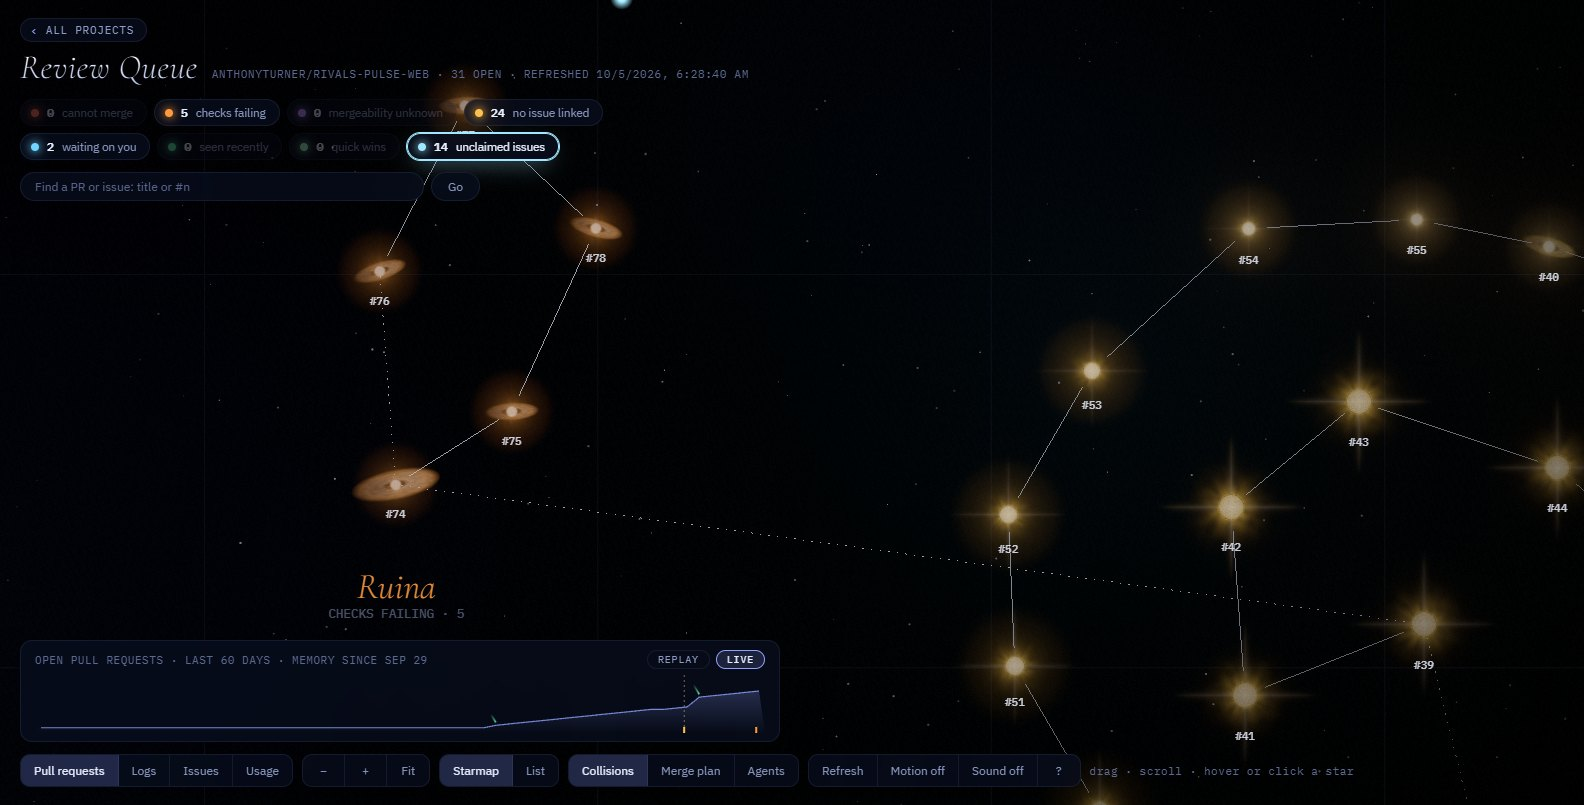
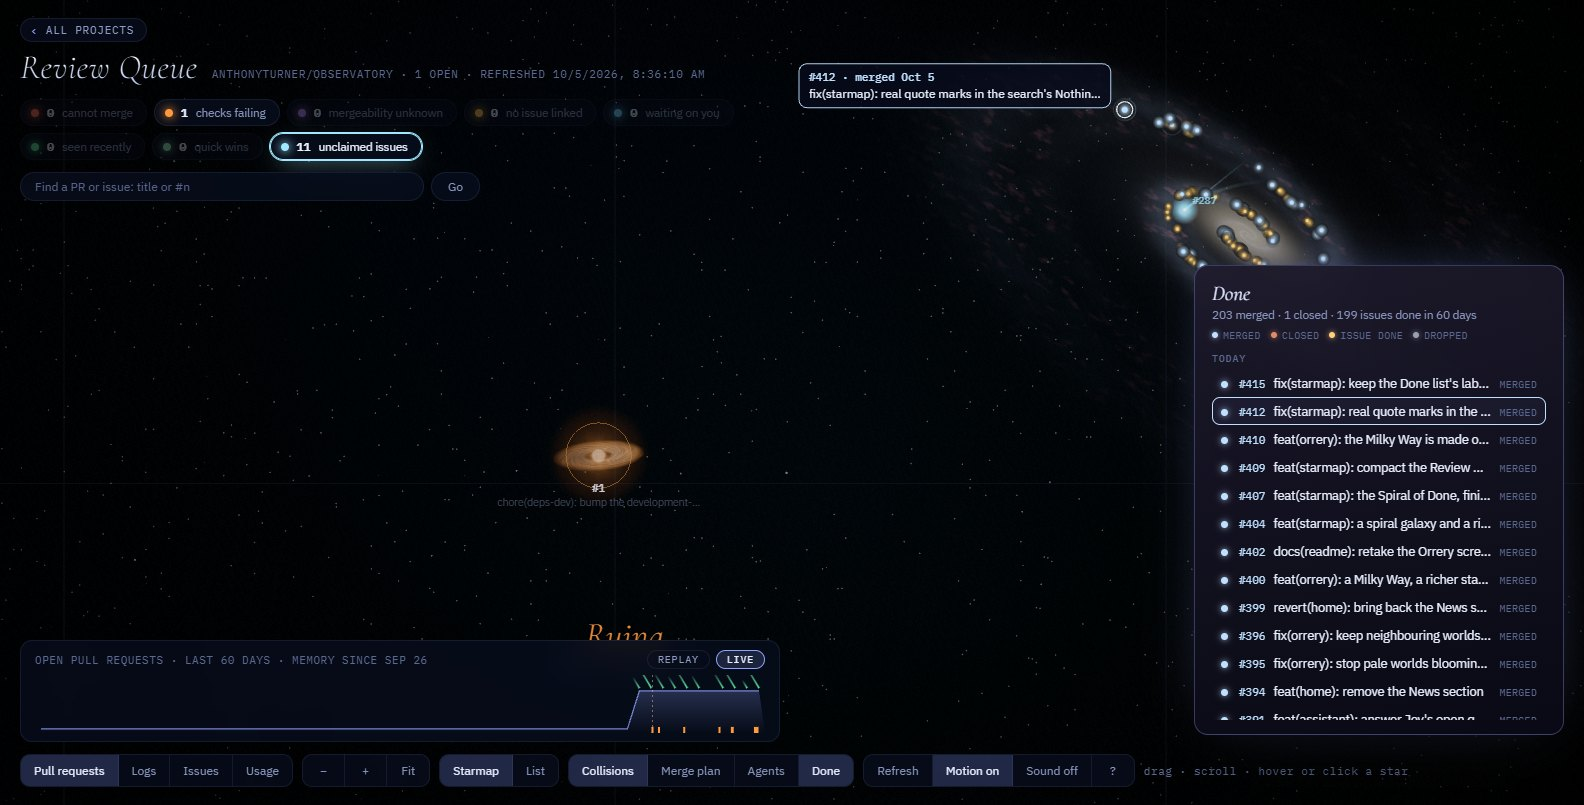
docs(readme): retake the review queue screenshots, describe finished work
The review queue's images now show its spiral galaxy and the Spiral of
Done with the Done list open, from the live app with public repositories
only. Reading the sky gains a line each for the Spiral of Done and the
shipped Milky Way.

Closes #413

diff --git a/README.md b/README.md
@@ -43,6 +43,9 @@ kept the same for each project on every load. Each page's help card (press
 - **Glowing cracks** mean checks are failing.
 - **Moons** are blocked pull requests, a **ring** is branches that no longer
   merge, and **comets** are unclaimed issues.
+- The specks in the **Milky Way** are what you shipped: every pull request
+  merged in the last 60 days, in its project's colour, oldest at one end of the
+  band and newest at the other.
 - The kind of world (rocky, gas giant, ice or desert), its land and its clouds
   are scenery.
 
@@ -50,8 +53,8 @@ kept the same for each project on every load. Each page's help card (press
 it and spaced along a spiral per group. Zoom in for detail.
 
 <table><tr>
-<td><img src="docs/images/review-queue-overview.jpg" alt="A review queue: a large spiral of pull requests with no issue linked, a smaller group with failing checks, and two waiting on review, joined by lines"></td>
-<td><img src="docs/images/review-queue-close-up.jpg" alt="The review queue zoomed in: failing-check stars with discs of gas, and stars with no issue linked, each tagged with its pull request number"></td>
+<td><img src="docs/images/review-queue-overview.jpg" alt="A review queue: a large spiral of pull requests with no issue linked, a smaller group with failing checks and two waiting on review, with a spiral galaxy behind them"></td>
+<td><img src="docs/images/review-queue-close-up.jpg" alt="The Spiral of Done: finished pull requests and issues as lights along the galaxy's arms, the Done list open beside it with one row lit and its light labelled"></td>
 </tr></table>
 
 - **Colour** is why it's stuck, and **size** is how long it has waited.
@@ -63,6 +66,9 @@ it and spaced along a spiral per group. Zoom in for detail.
   change, green for a quick win, none under twenty lines.
 - **Planets** are the issues it closes, up to four. No planets, no linked
   issue.
+- **The spiral galaxy is the Spiral of Done:** everything merged, closed or
+  finished in the last 60 days, newest at the arm tips and older work winding in
+  to the core. **Done** lists it by day.
 
 These are screenshots of the app running on real data, with only the public
 repositories shown. Where WebGL can't start, both pages fall back to a
